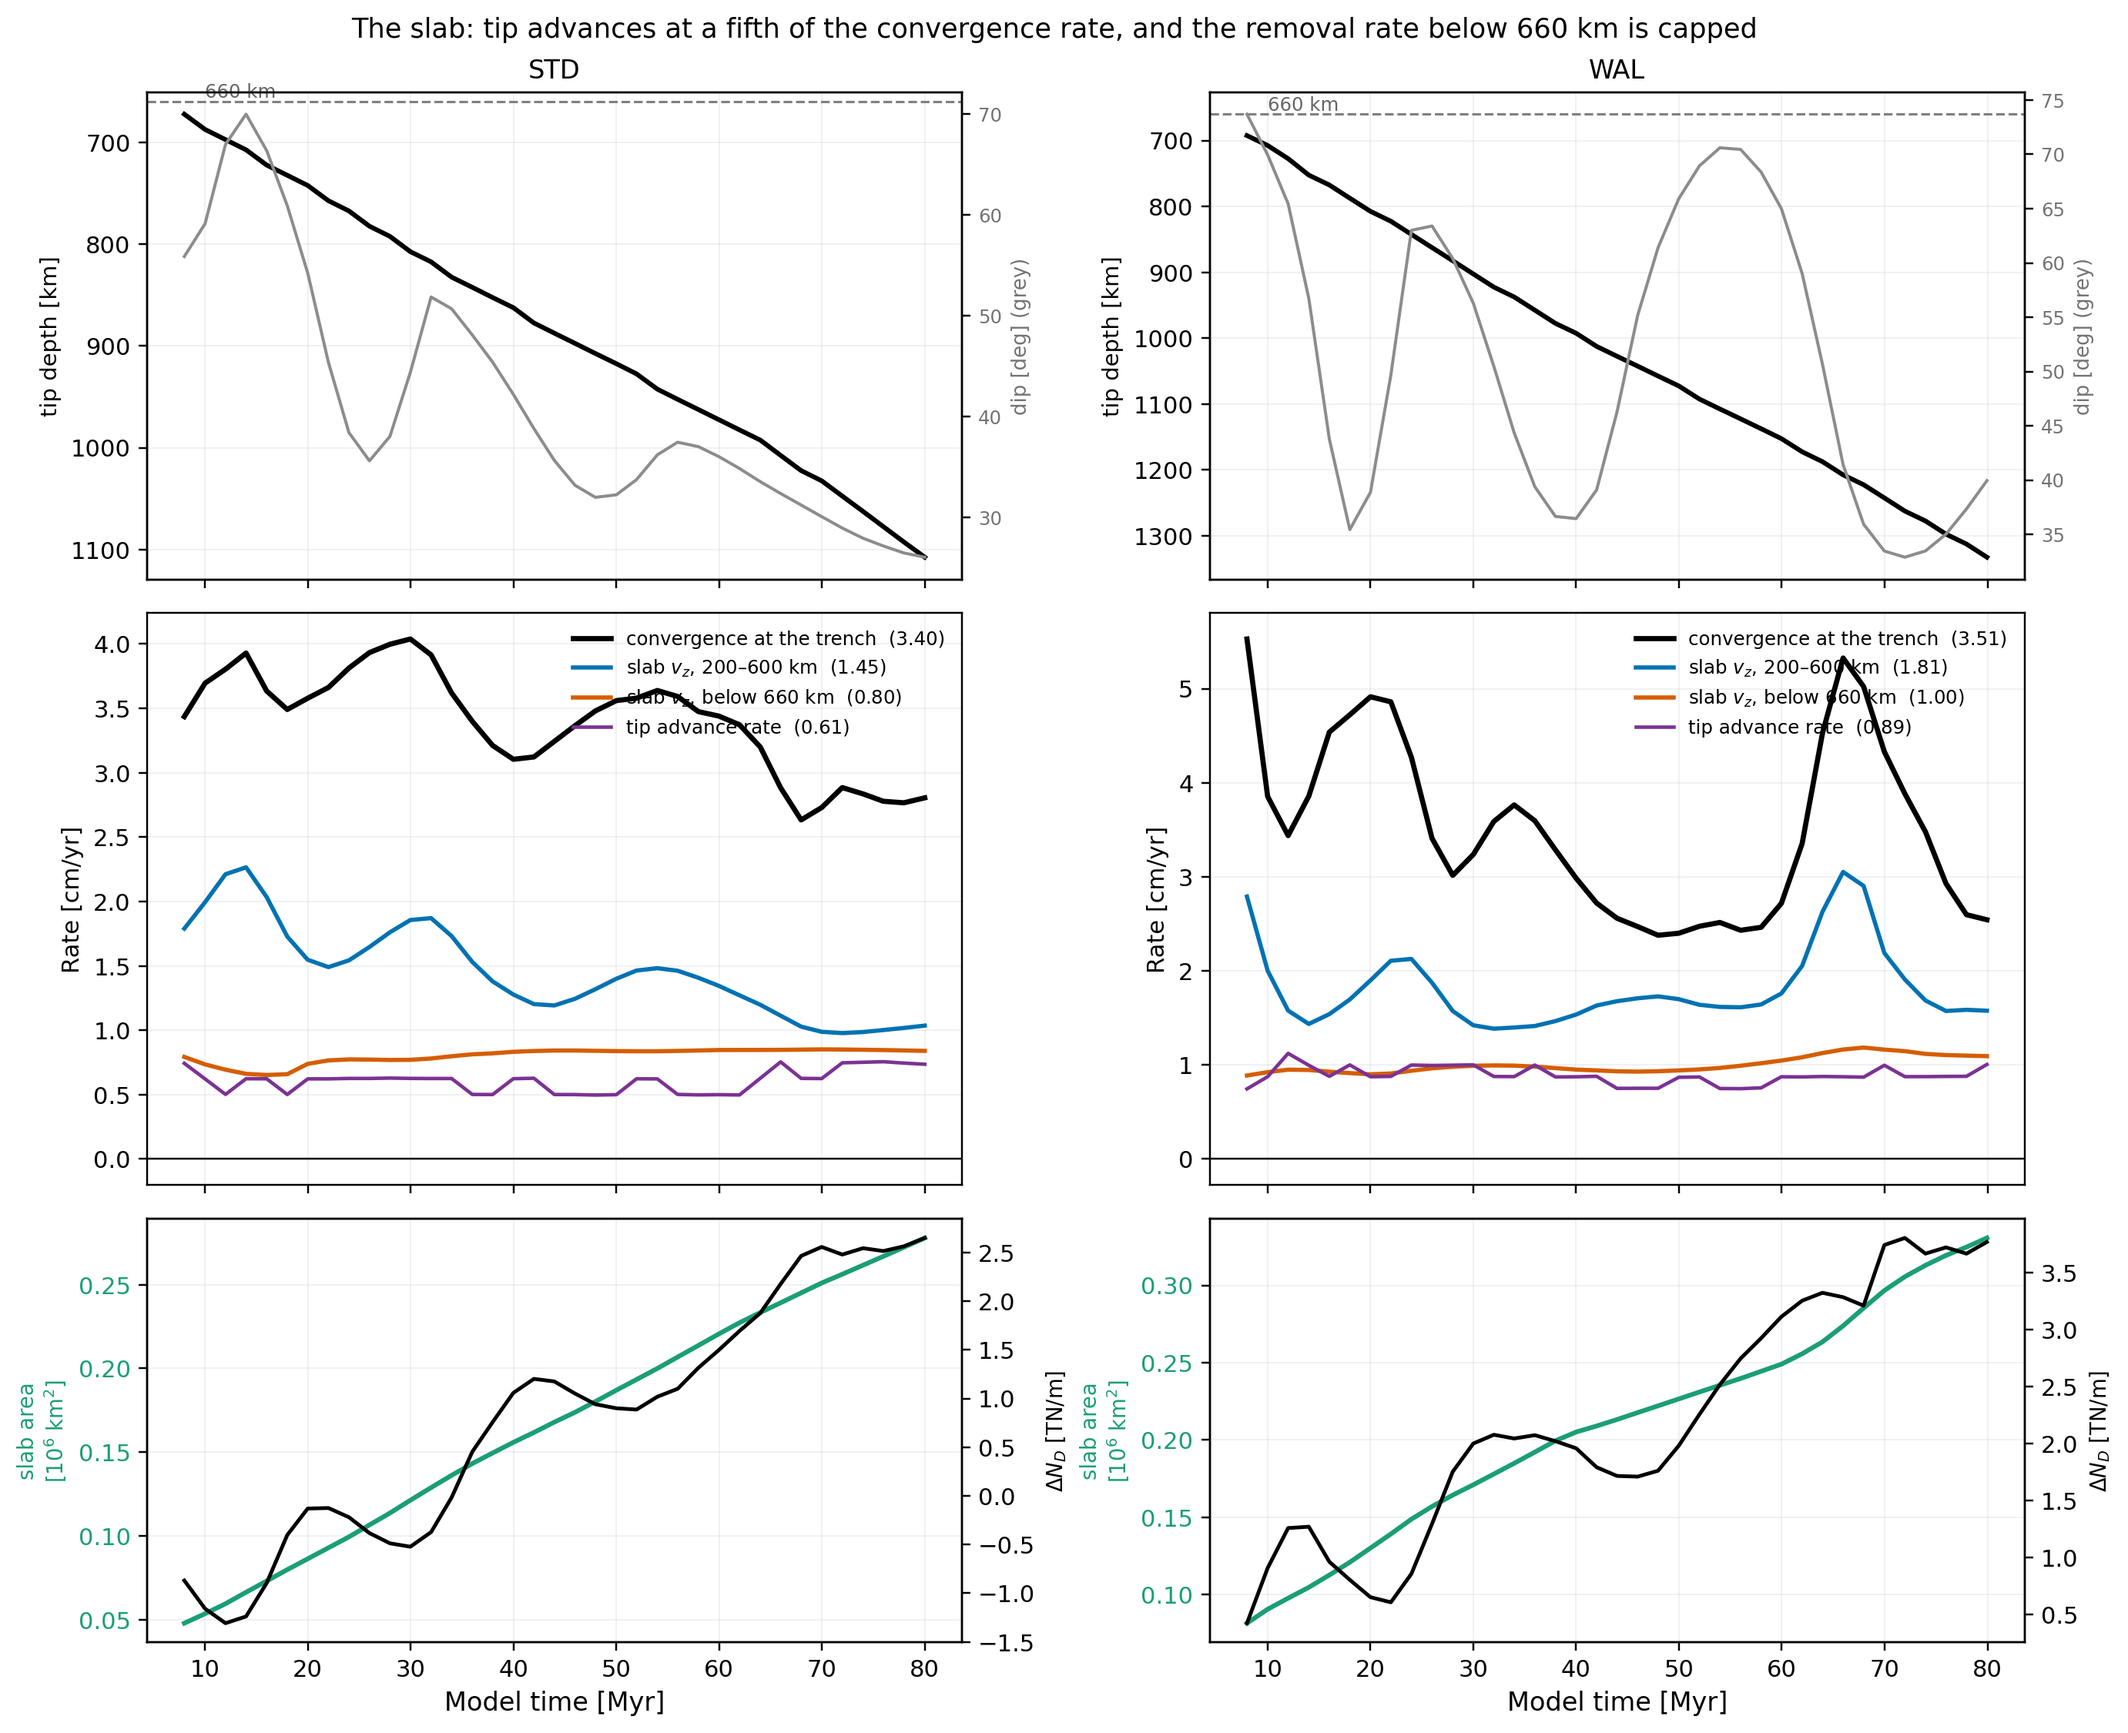
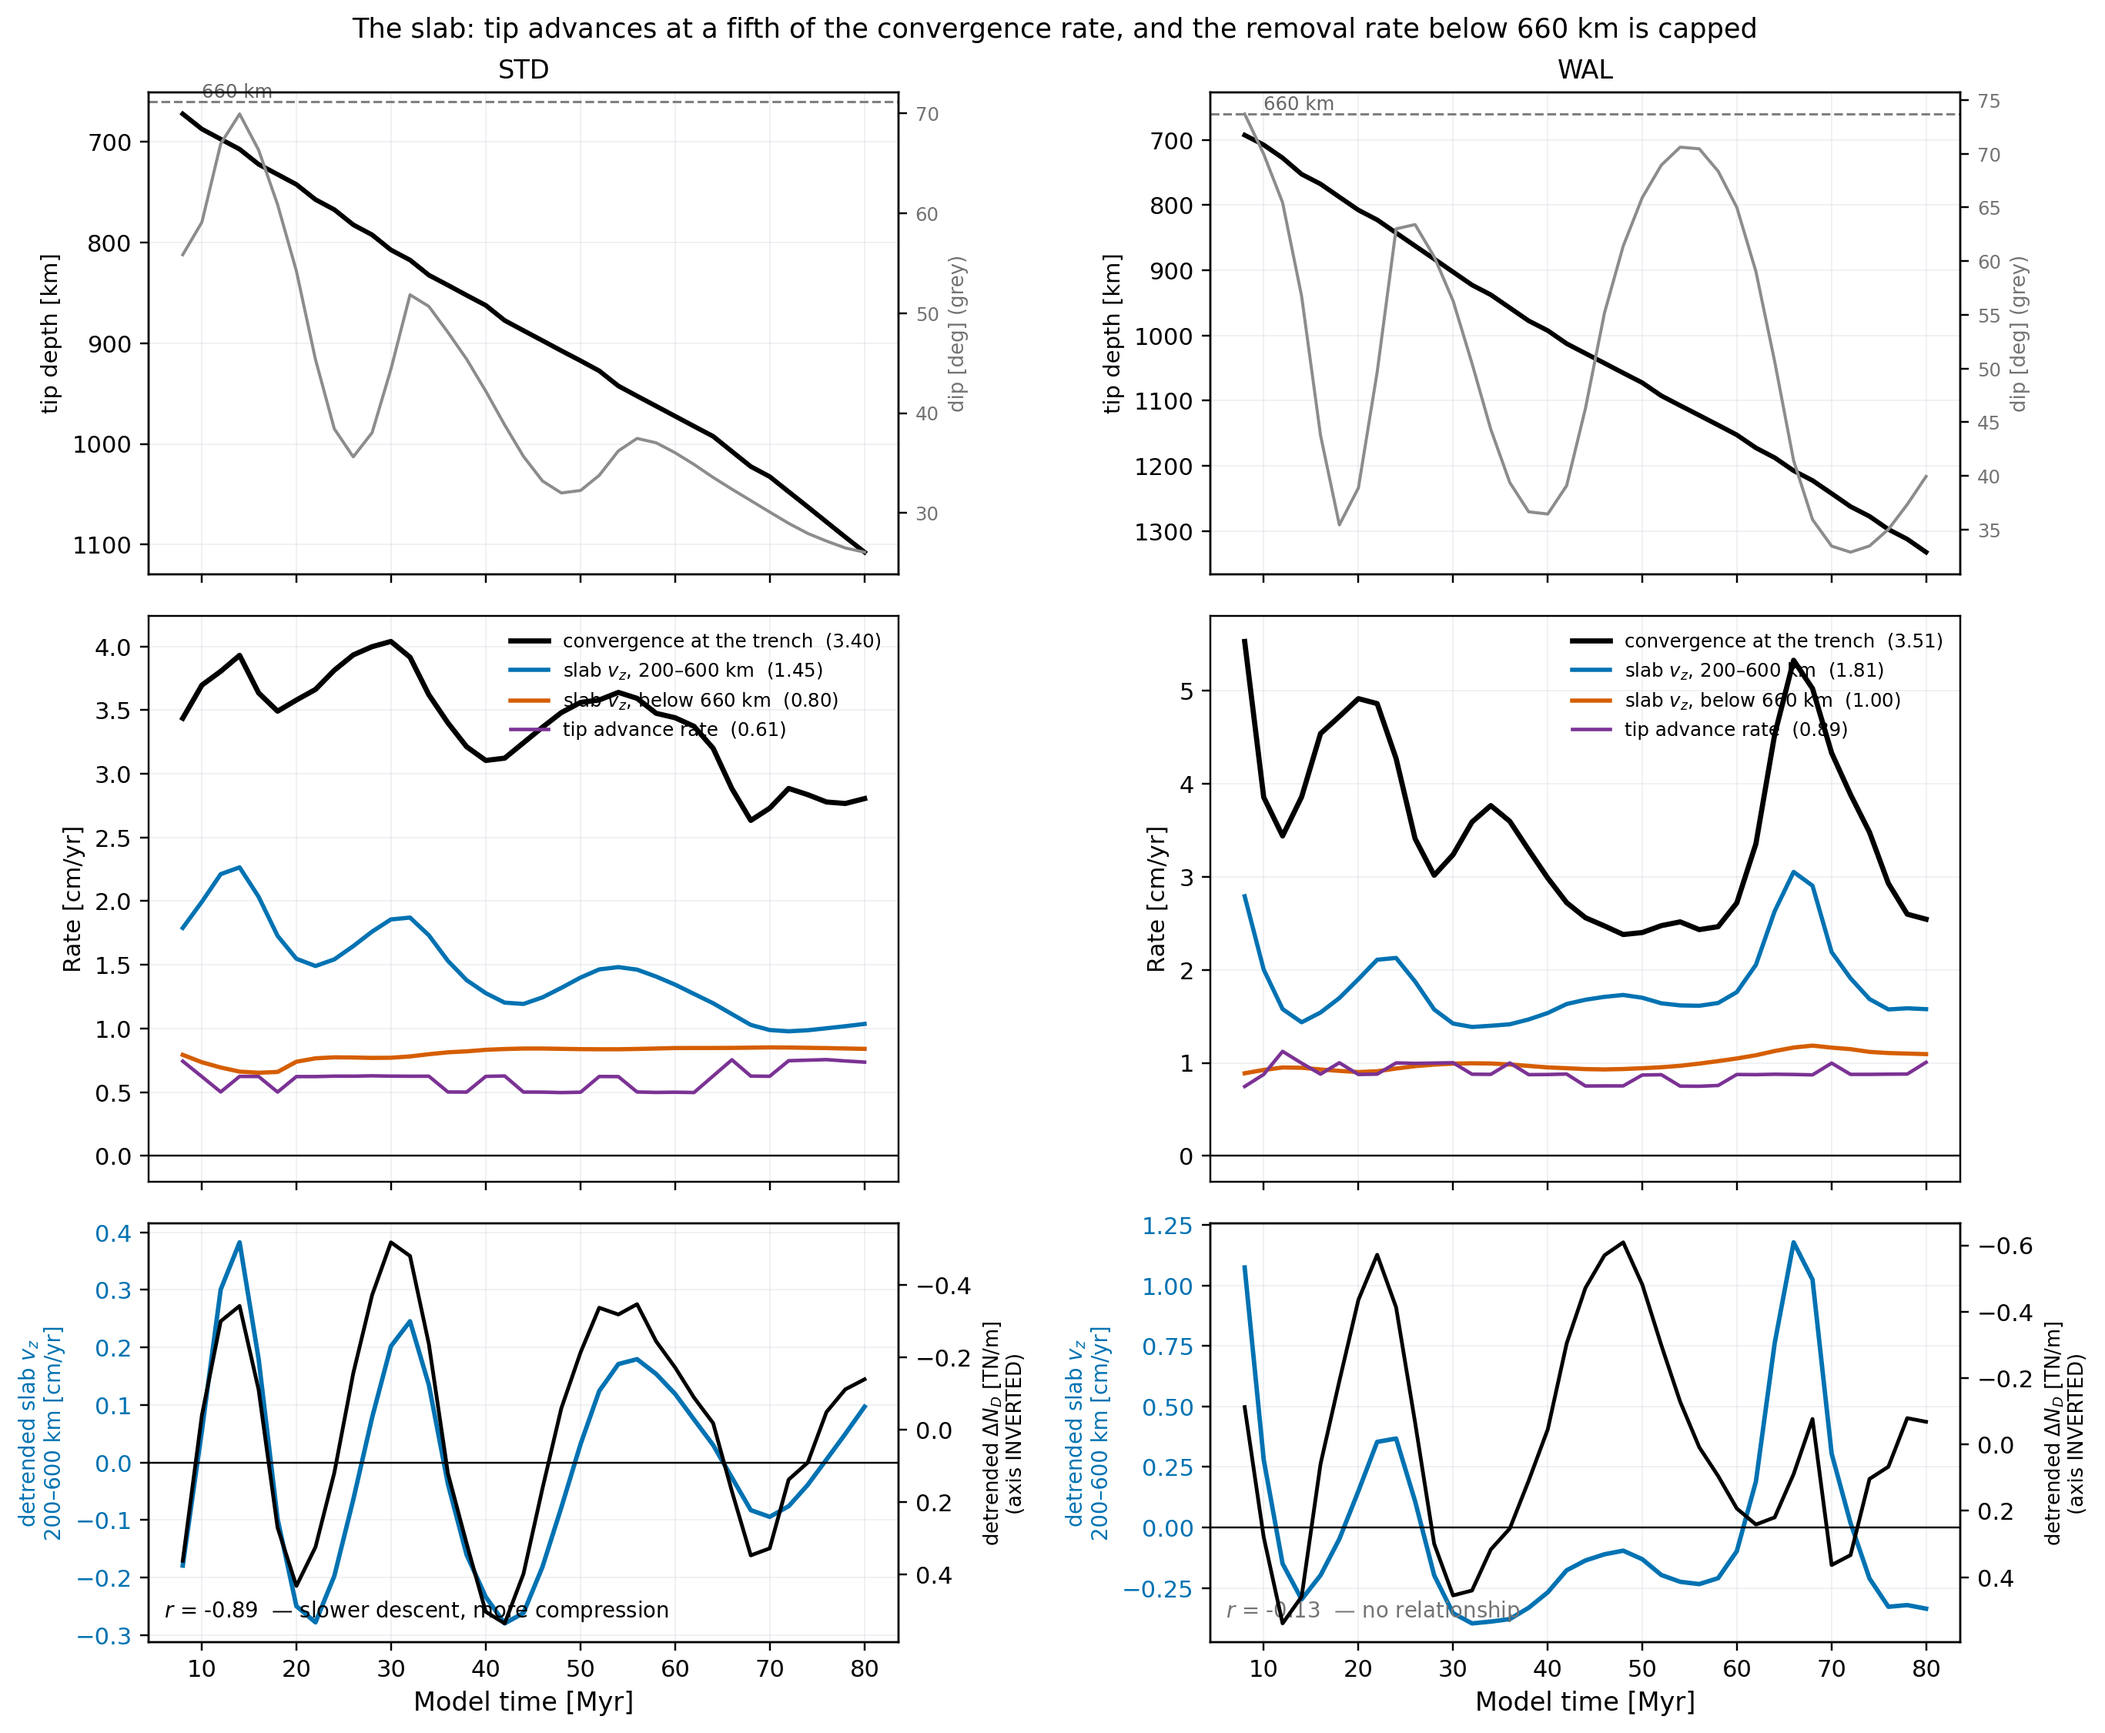
fig_slab_descent row 3: plot the relationship that actually holds
Dan asked whether the figure plots the r = -0.89 result. It did not. The
bottom panel showed slab AREA against Delta N_D -- which correlates at
+0.97 in levels and ~0 detrended, because both series are monotonic. So
the most persuasive-looking panel in the figure carried the least
information, while the one relationship that survives detrending was not
drawn anywhere.

Row 3 is now the mechanism, detrended: the slab's upper-mantle descent
rate against the in-plane resultant, with the Delta N_D axis INVERTED so
the anti-correlation reads as tracking, and the label saying so. Each
panel prints its own r.

The two panels now disagree with each other, which is the honest result:
STD tracks visibly at r = -0.89 -- slower descent, more compression --
and WAL is flat at -0.13 with the panel saying "no relationship". A
reader can see where the mechanism holds and where it does not without
being told.

Slab area moves to the table; the dip panel already carries the
geometric-accommodation story visually.

The trap is recorded in the docstring: at levels almost everything in
this figure correlates with everything else because all of it trends
monotonically, so row 3 must be detrended or it is worthless.

diff --git a/scripts/fig_slab_descent.py b/scripts/fig_slab_descent.py
@@ -18,15 +18,24 @@ enough the shortfall appears as compression at the trench.
      mantle, the same below 660 km, and the rate at which the tip
      advances -- all in cm/yr on one axis. Each stage is slower than the
      one above it.
-  3  the consequence: the slab's cross-sectional area, and the in-plane
-     resultant at the trench.
+  3  THE MECHANISM, detrended: the slab's upper-mantle descent against
+     the in-plane resultant at the trench, with the Delta N_D axis
+     inverted so the anti-correlation reads as tracking.
+
+⚠ Row 3 MUST be detrended. At levels almost everything here correlates
+with everything else, because all of it trends monotonically: slab area
+against Delta N_D gives r = +0.97 and means nothing (detrended it is
+~0). An earlier version of this figure plotted exactly that pairing --
+the most persuasive-looking panel carrying the least information, while
+the relationship that survives detrending was not shown at all.
 
 WHAT IT ESTABLISHES.
   * The tip advances at only ~18 % (STD) / ~20 % (WAL) of the convergence
     rate. Four fifths of what converges does NOT deepen the slab.
   * It is accommodated by the slab lengthening and flattening instead:
     dip 56 -> 26 deg (STD) and 74 -> 40 (WAL), with the cross-section
-    growing five- to six-fold.
+    growing five- to six-fold (tabulated; the dip panel carries the same
+    story visually).
   * The removal rate below 660 km is CAPPED and inert: 0.80 +/- 0.06
     (STD) / 1.00 +/- 0.09 cm/yr, trending +0.02 / +0.03 per 10 Myr. It
     responds to nothing.
@@ -50,8 +59,11 @@ cascade -- the convergence rate at the trench, the slab's mean vertical
 velocity in the upper mantle and below 660 km, and the rate at which the
 tip advances. Each stage is slower than the one above it, so most of what
 converges is accommodated by the slab lengthening and flattening rather
-than deepening. Bottom: the resulting growth of the slab cross-section,
-against the normal-stress-difference resultant across the trailing plate.
+than deepening. Bottom: the slab's upper-mantle descent rate against the
+normal-stress-difference resultant across the trailing plate, both with
+their secular trends removed and the resultant's axis inverted, so that
+episodes of slower descent coincide with greater compression at the
+trench.
 """
 import os, sys
 import numpy as np
@@ -121,13 +133,30 @@ def main():
         a1.set_ylabel('Rate [cm/yr]', fontsize=10)
         a1.legend(frameon=False, fontsize=8, loc='upper right')
 
-        a2.plot(ts, area, '-', color=C_AREA, lw=2.0)
-        a2.set_ylabel('slab area\n[$10^6$ km$^2$]', fontsize=9, color=C_AREA)
-        a2.tick_params(axis='y', labelcolor=C_AREA)
+        # Row 3 is the MECHANISM, and it must be plotted DETRENDED. At
+        # levels almost everything here correlates with everything else
+        # because all of it trends monotonically -- slab area against
+        # Delta N_D looks like r = +0.97 and is worth nothing (detrended
+        # it is ~0). The relationship that survives detrending is the
+        # slab's upper-mantle descent against the in-plane resultant.
+        # Delta N_D's axis is INVERTED so the anti-correlation reads as
+        # tracking; the label says so.
+        rr = float(np.corrcoef(ld(ts, vz_up), ld(ts, ND))[0, 1])
+        a2.plot(ts, ld(ts, vz_up), '-', color=C_UPPER, lw=1.9)
+        a2.axhline(0, color='k', lw=0.8)
+        a2.set_ylabel('detrended slab $v_z$\n200–600 km [cm/yr]', fontsize=9,
+                      color=C_UPPER)
+        a2.tick_params(axis='y', labelcolor=C_UPPER)
         a2.set_xlabel('Model time [Myr]', fontsize=11)
         a2b = a2.twinx()
-        a2b.plot(ts, ND, '-', color='k', lw=1.6)
-        a2b.set_ylabel('$\\Delta N_D$ [TN/m]', fontsize=9)
+        a2b.plot(ts, ld(ts, ND), '-', color='k', lw=1.6)
+        a2b.invert_yaxis()
+        a2b.set_ylabel('detrended $\\Delta N_D$ [TN/m]\n(axis INVERTED)', fontsize=8.5)
+        a2.text(0.02, 0.06, f'$r$ = {rr:+.2f}' +
+                ('  — slower descent, more compression' if rr < -0.5
+                 else '  — no relationship'),
+                transform=a2.transAxes, fontsize=9,
+                color='k' if rr < -0.5 else '0.45')
         for ax in (a0, a1, a2):
             ax.grid(alpha=0.25, color=C_RULE, lw=0.6)
 
